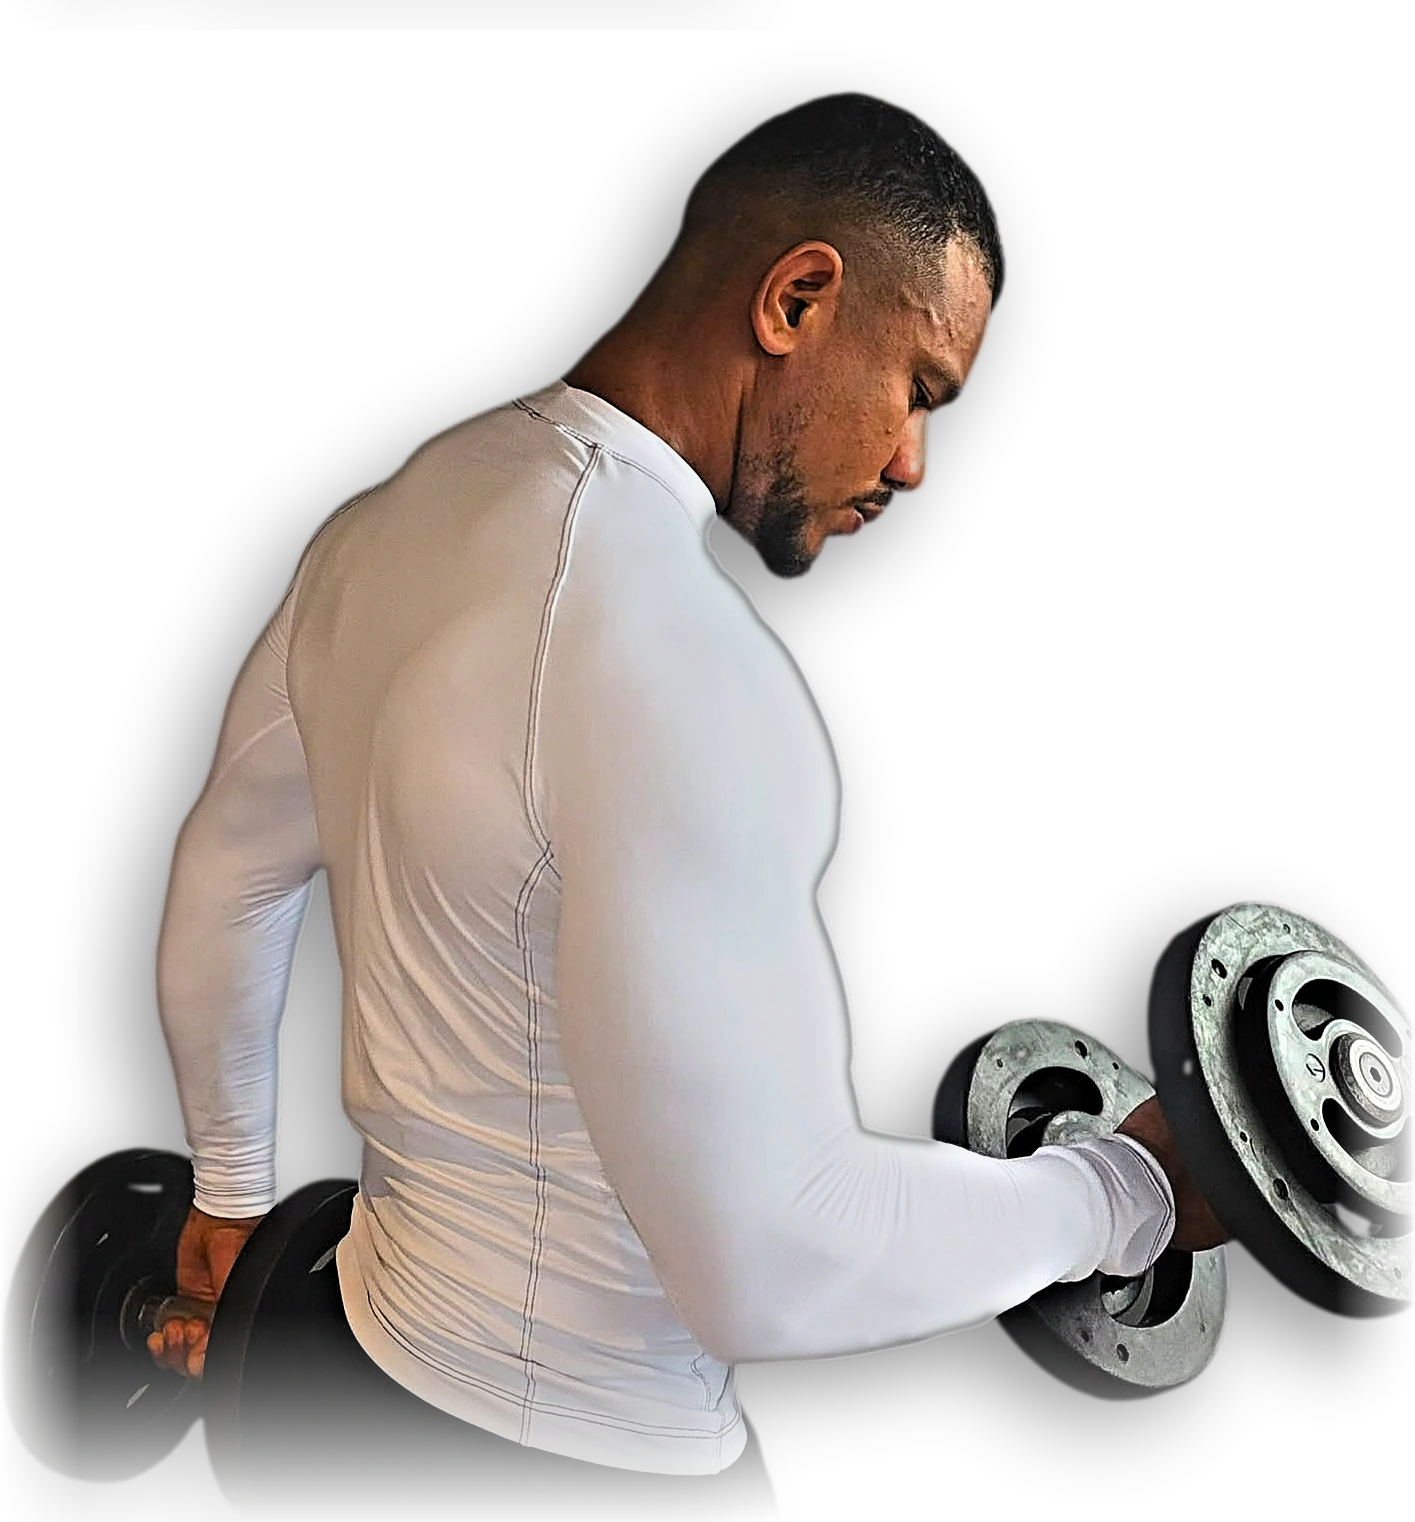
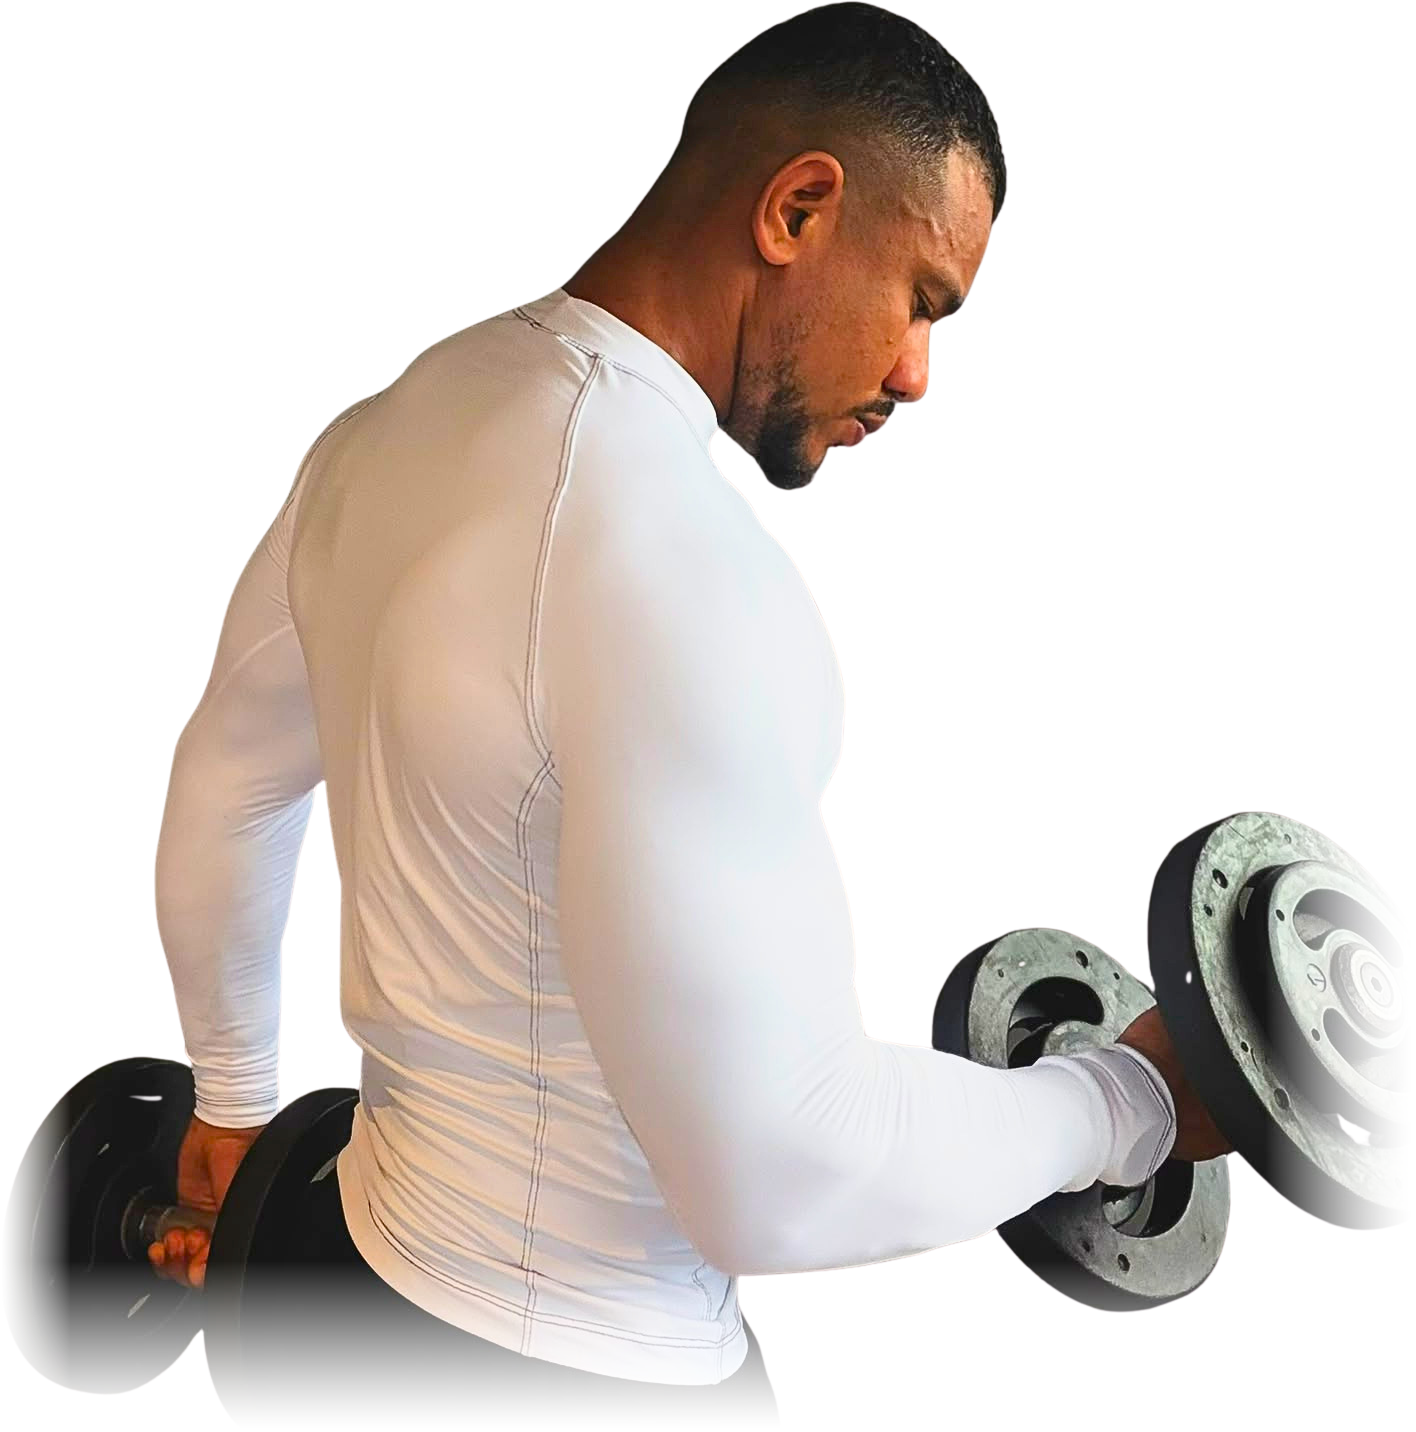
Hero com a foto natural e bordas suavizadas
Remove o tratamento de cor, que deixava a camisa com aspecto embaçado.
A foto fica como no recorte original, salva sem perda, apenas com
degradê de transparência nas bordas cortadas pelo enquadramento.

Claude-Session: https://claude.ai/code/session_01GAEskKzM2YSHQyvgLip5Wy

diff --git a/_brief-imagens/hero-v2/natural.py b/_brief-imagens/hero-v2/natural.py
@@ -1,0 +1,16 @@
+# Recorte do Gabriel sem tratamento de cor: so fades de transparencia nas bordas cortadas da foto.
+from PIL import Image
+import numpy as np
+V='_brief-imagens/hero-v2/'; U='public/wp-content/uploads/2024/11/'
+im=Image.open(V+'recorte-gabriel.png').convert('RGBA'); im=im.crop(im.getbbox())
+a=np.asarray(im,np.float32).copy(); H,W=a.shape[:2]
+xx=np.arange(W)[None,:]; yy=np.arange(H)[:,None]
+direita=np.clip((W-1-xx)/150.0,0,1)**1.6      # halter cortado pela borda da foto
+esquerda=np.clip(xx/70.0,0,1)**1.3            # halter da esquerda encosta na borda
+baixo=np.clip((H-1-yy)/170.0,0,1)**1.4        # barra da camisa / calca some antes da faixa
+a[...,3]*=direita*esquerda*baixo
+out=Image.fromarray(np.clip(a,0,255).astype(np.uint8))
+out.save(V+'natural.png')
+out.save(U+'ng-car12ol1-emerson.webp',lossless=True,quality=100,method=6)
+out.save(U+'ng-carol1-mi12ble-emerson.webp',lossless=True,quality=100,method=6)
+print('ok',out.size)
